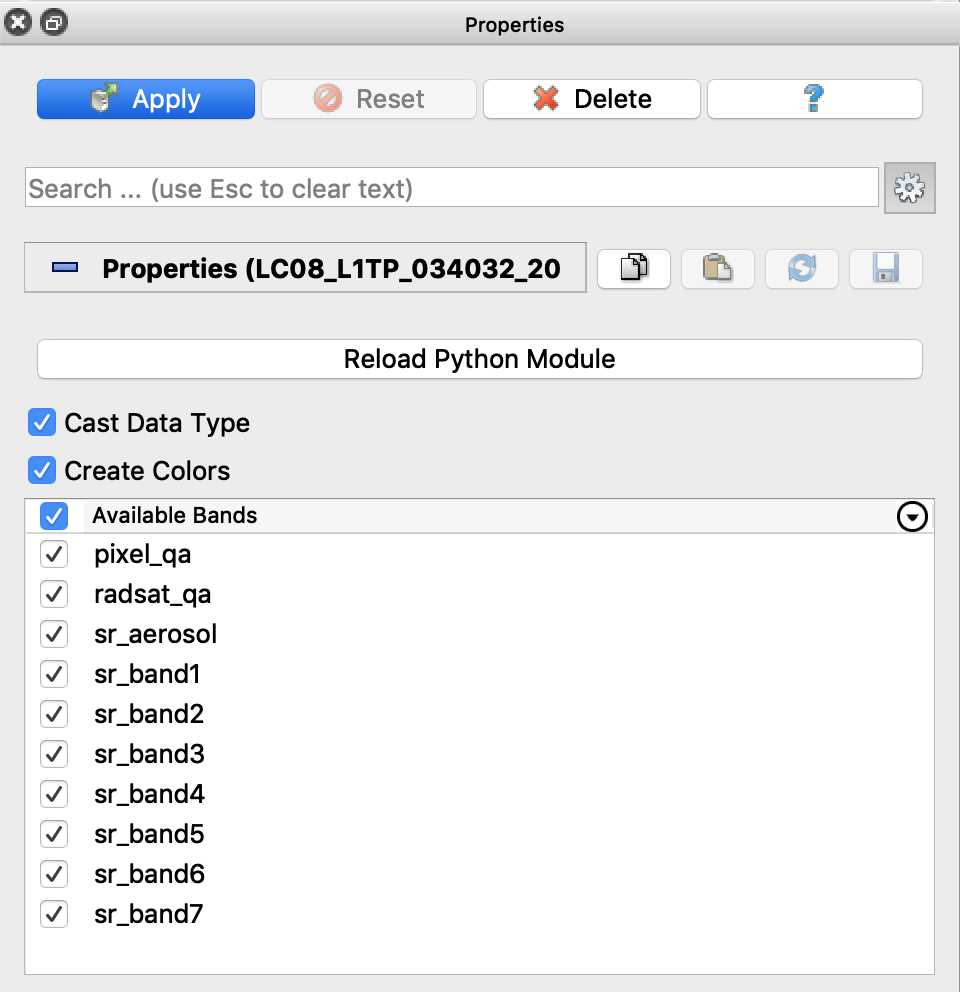
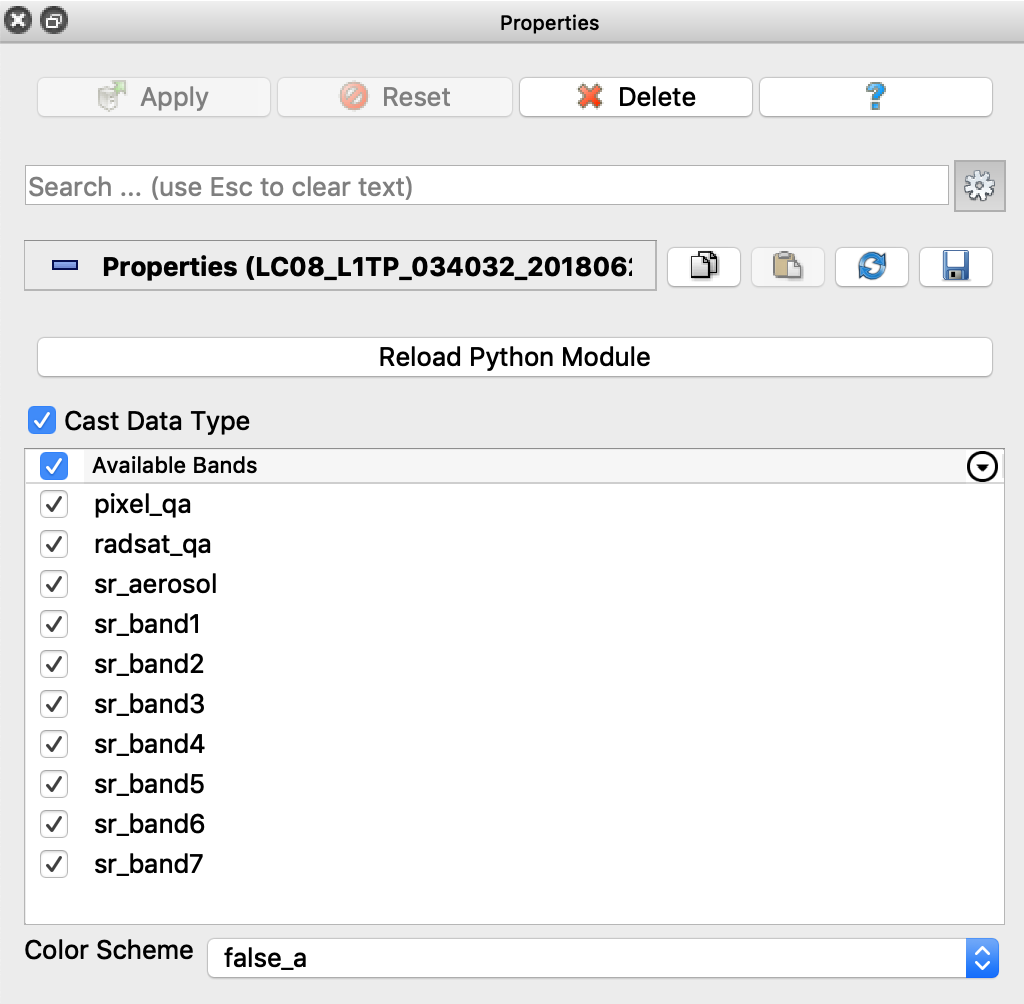
Update Landsat raster example to reflect espatools v0.0.7

diff --git a/docs/examples/grids/raster.md b/docs/examples/grids/raster.md
@@ -22,10 +22,17 @@ Go ahead and load up all the data! If you only want a few bands, then select the
 
 ### Use RGB
 
-If your raster has enough bands for RGB data, then select the *Create Colors* checkbox, display by the new *Colors* array and turn off *Map Scalars* in the properties to display a true color image.
+If your raster has enough bands for RGB data, then select the a *Color Scheme* from the drop down menu.
+This will add a new RGB data array for your raster set. To see the RGB values in the Render View, turn off *Map Scalars* in the properties to display a true color image.
 
 !!! warning
-    *Create Colors* is an experimental feature at the moment. We recommend selecting the bands you need then using PVGeo's `ArraysToRGBA` filter.
+    *Color Scheme* uses predefined color schemes for the raster set's sattelite which ``espatools`` manages on the backend. You may need to load all data arrays/bands for this to work. We recommend selecting the bands you need then using PVGeo's `ArraysToRGBA` filter.
+
+Select a *Color Scheme*:
+
+<div style="text-align: center;"><img src="docs/examples/grids/images/raster-color-scheme.png" alt="menu" width="50%"></div>
+
+Be sure to turn off *Map Scalars* to see the RGB values:
 
 <div style="text-align: center;"><img src="docs/examples/grids/images/raster-map-scalars.png" alt="menu" width="50%"></div>
 
